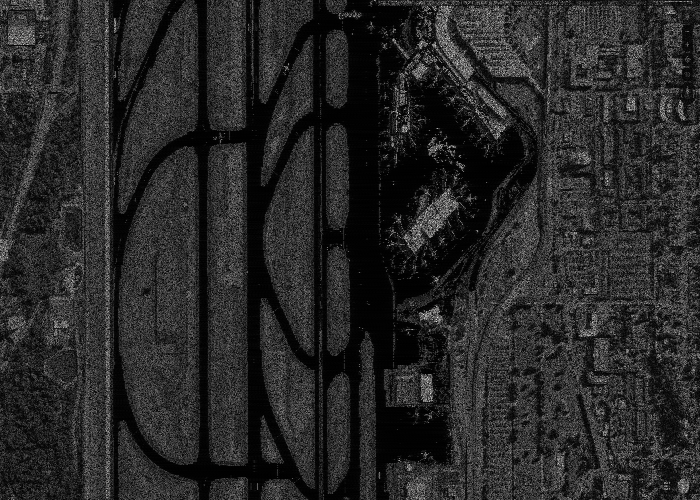
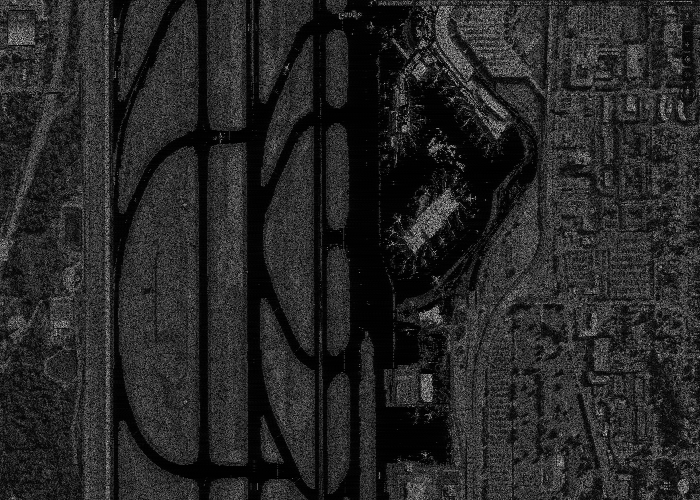
缩小图像处理区域

Changed region(s): [[0.0, 0.0, 1.0, 1.0], [0.57, 0.36, 0.66, 0.51], [0.6, 0.27, 0.66, 0.33]]

diff --git a/week5/draw.py b/week5/draw.py
@@ -63,10 +63,10 @@ def process(i,j, ic, jc, k, sigma, picture):
 
     # 计算新的灰度值
     gray_pic = picture[rr, cc]
-    p_gray=p.gray()
-    #print(p_gray)
-    temp1 = gray_pic - p_gray
-    temp2 = gray_pic + p_gray
+
+
+    temp1 = np.uint16(gray_pic) - np.uint16(p.gray())
+    temp2 = np.uint16(gray_pic) + np.uint16(p.gray())  # Assuming you want temp2 to be np.uint16 as well
     #print(temp1,temp2)
     if np.array_equal(temp1, temp2):
       temp1 = temp1 - 1
@@ -92,17 +92,15 @@ def process(i,j, ic, jc, k, sigma, picture):
     #因为我们是先判断了每个点的状态，大大节省了仿真时间
 
 def process_picture(dm, dn, ic, jc, k, sigma, picture):
-  max_dim = np.argmax(picture.shape)
-  # If the longer side is the height (dimension 0), iterate over i
-  if max_dim == 0:
-    for j in np.arange(0, picture.shape[0], dm):
-      for i in np.arange(0, picture.shape[1], dn):
-        process(i, j, ic, jc, k, sigma, picture)
+    # 确保遍历的起始点不小于0，结束点不超过图片尺寸
+    start_i = max(ic - 50, 0)
+    end_i = min(ic + 50, picture.shape[1])
+    start_j = max(jc - 50, 0)
+    end_j = min(jc + 50, picture.shape[0])
 
-  # If the longer side is the width (dimension 1), iterate over j
-  else:
-    for i in np.arange(0, picture.shape[1], dn):
-      for j in np.arange(0, picture.shape[0], dm):
-        process(i, j, ic, jc, k, sigma, picture)
+    # 遍历ic, jc周围一百个点
+    for i in np.arange(start_i, end_i, dn):
+        for j in np.arange(start_j, end_j, dm):
+            process(i, j, ic, jc, k, sigma, picture)
 
-  return picture
+    return picture

diff --git a/week5/SAR.py b/week5/SAR.py
@@ -49,7 +49,7 @@ def sar():
       img = Image.open(uploaded_file)
   else:
     #注意这里也要修改vscode的工作路径，如果报错的话
-      img_path =  os.path.abspath('.\\week5\\runway.jpg')
+      img_path =  os.path.abspath('./week5/runway.jpg')
       img = Image.open(img_path)
   img_array = np.array(img)
 
